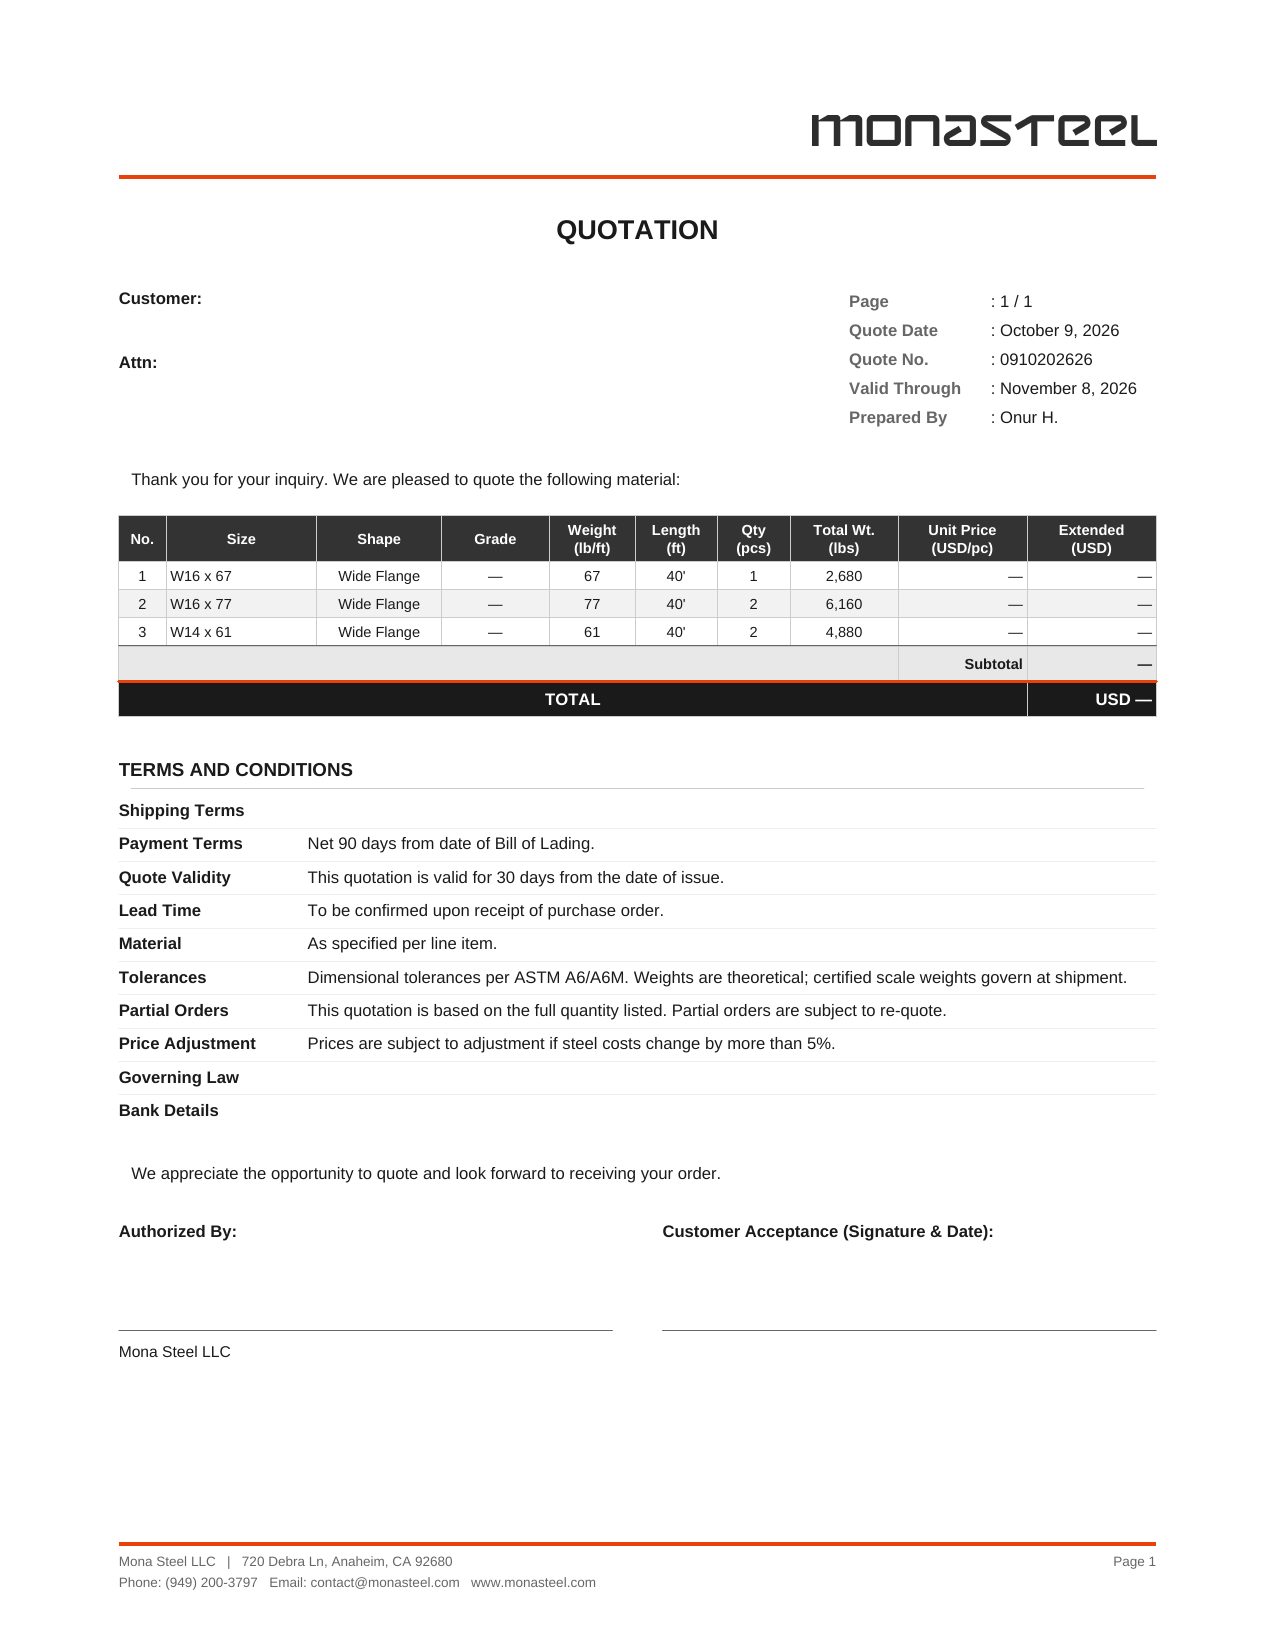
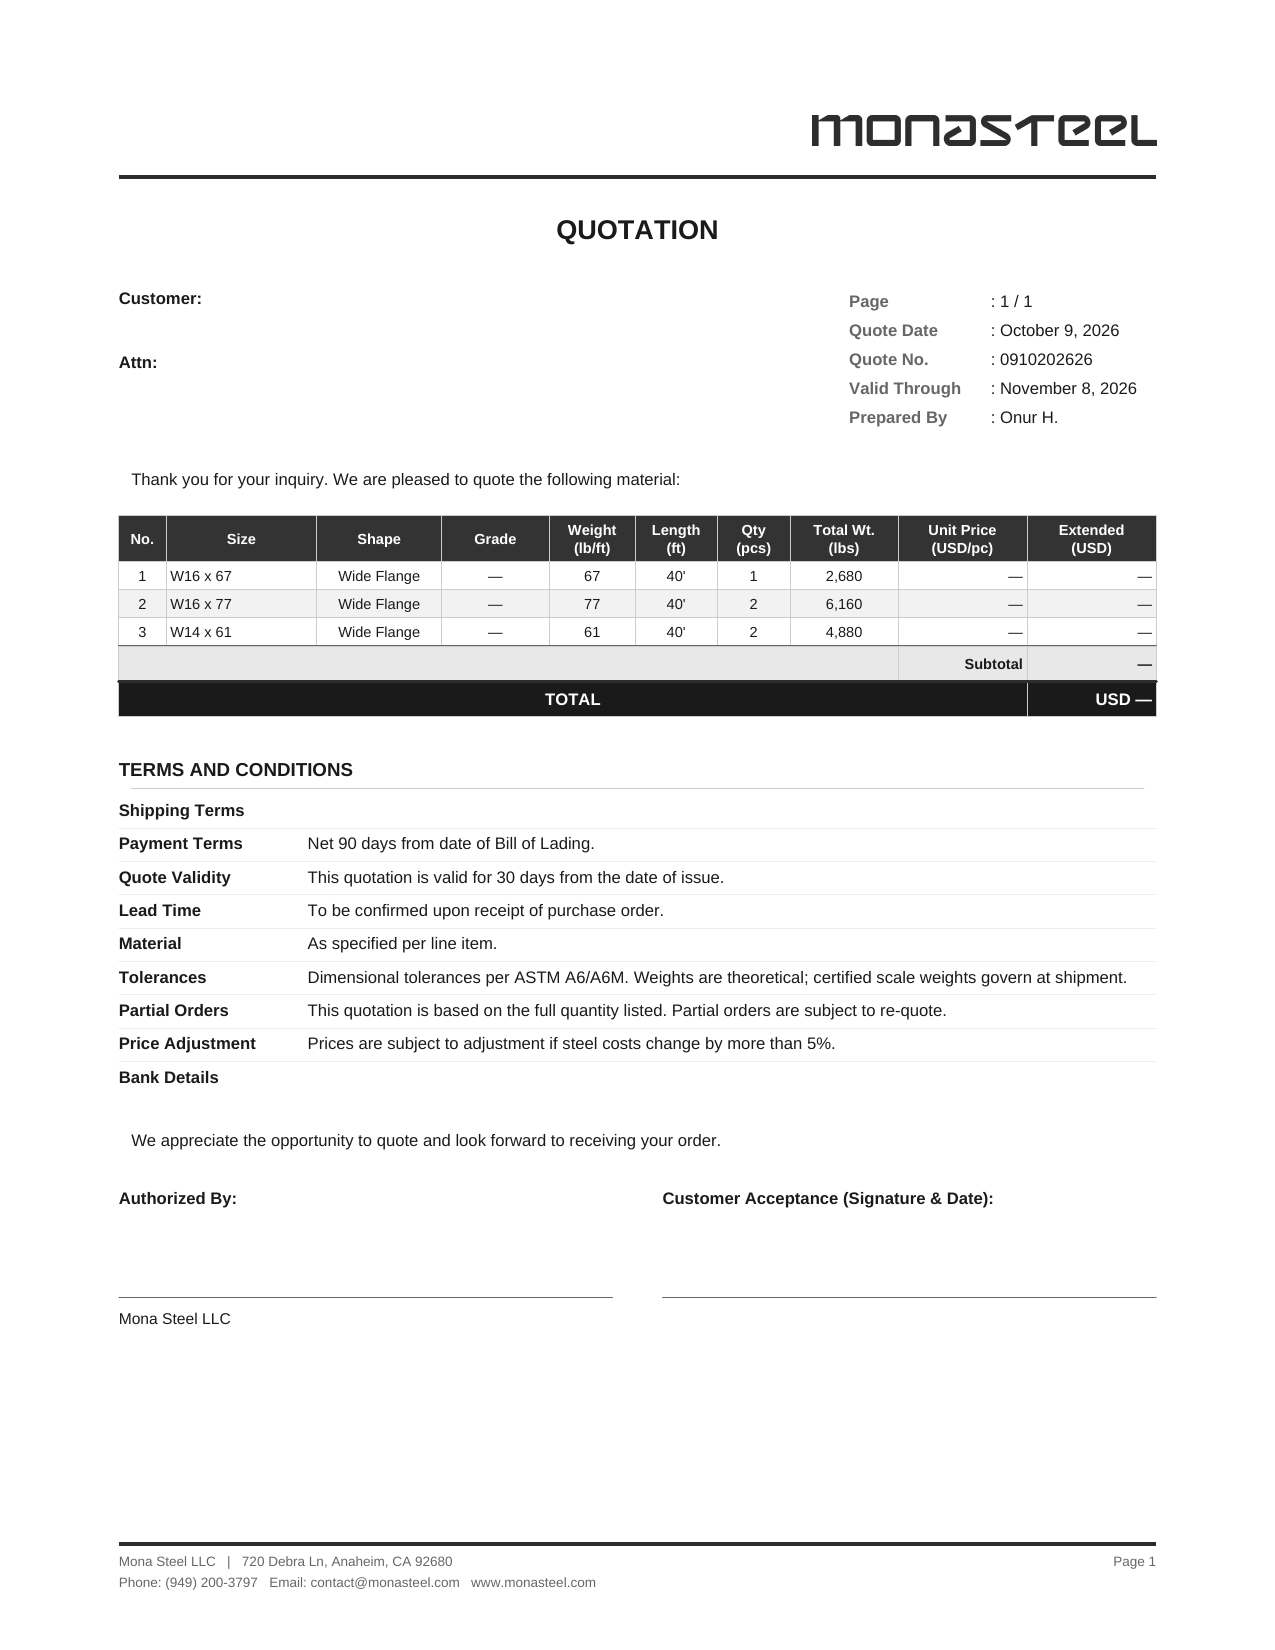
Mona Steel quote: charcoal brand rules, drop Governing Law term
Claude-Session: https://claude.ai/code/session_014NGw4xK4xXfjmM1FApyp2H

Changed region(s): [[0.0918, 0.6491, 0.7647, 0.8345]]

diff --git a/teklif-onizleme/monasteel/build_monasteel.py b/teklif-onizleme/monasteel/build_monasteel.py
@@ -21,6 +21,9 @@ def patch(old, new):
     src = src.replace(old, new)
 
 
+# ── Brand colour: Mona Steel charcoal (from the logo) instead of Yilmaz orange ─
+patch("ORANGE   = colors.HexColor('#E8420A')", "ORANGE   = colors.HexColor('#2D2D2D')")
+
 # ── Page: US Letter, footer rule anchored to the bottom edge ─────────────────
 patch('from reportlab.lib.pagesizes import A4', 'from reportlab.lib.pagesizes import letter as A4')
 patch('bot_rule_y = H - 791', 'bot_rule_y = 51')
@@ -119,7 +122,6 @@ US_TERMS = [
                         'certified scale weights govern at shipment.'),
     ('Partial Orders',  'This quotation is based on the full quantity listed. Partial orders are subject to re-quote.'),
     ('Price Adjustment','Prices are subject to adjustment if steel costs change by more than 5%.'),
-    ('Governing Law',   ''),
     ('Bank Details',    ''),
 ]
 
